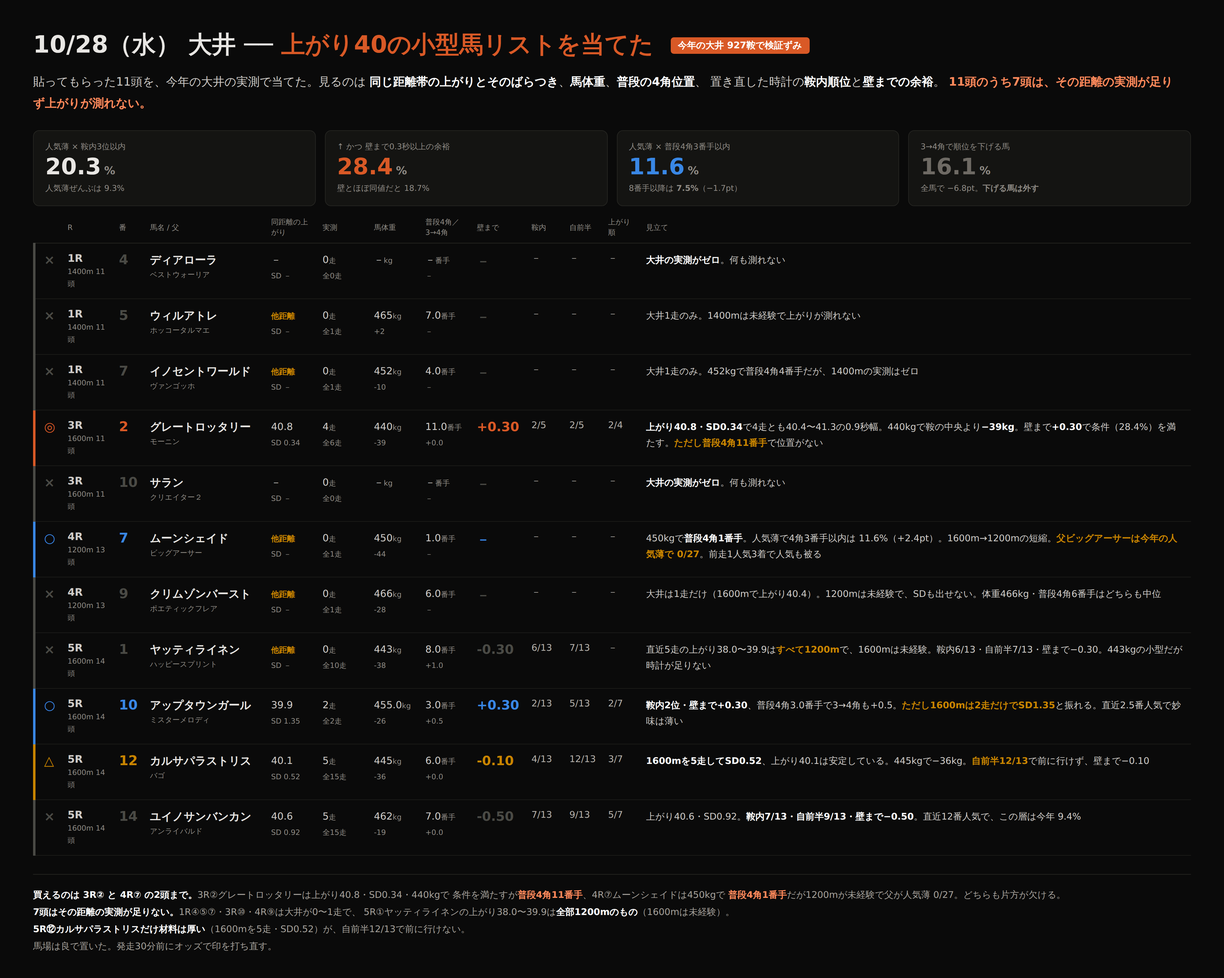
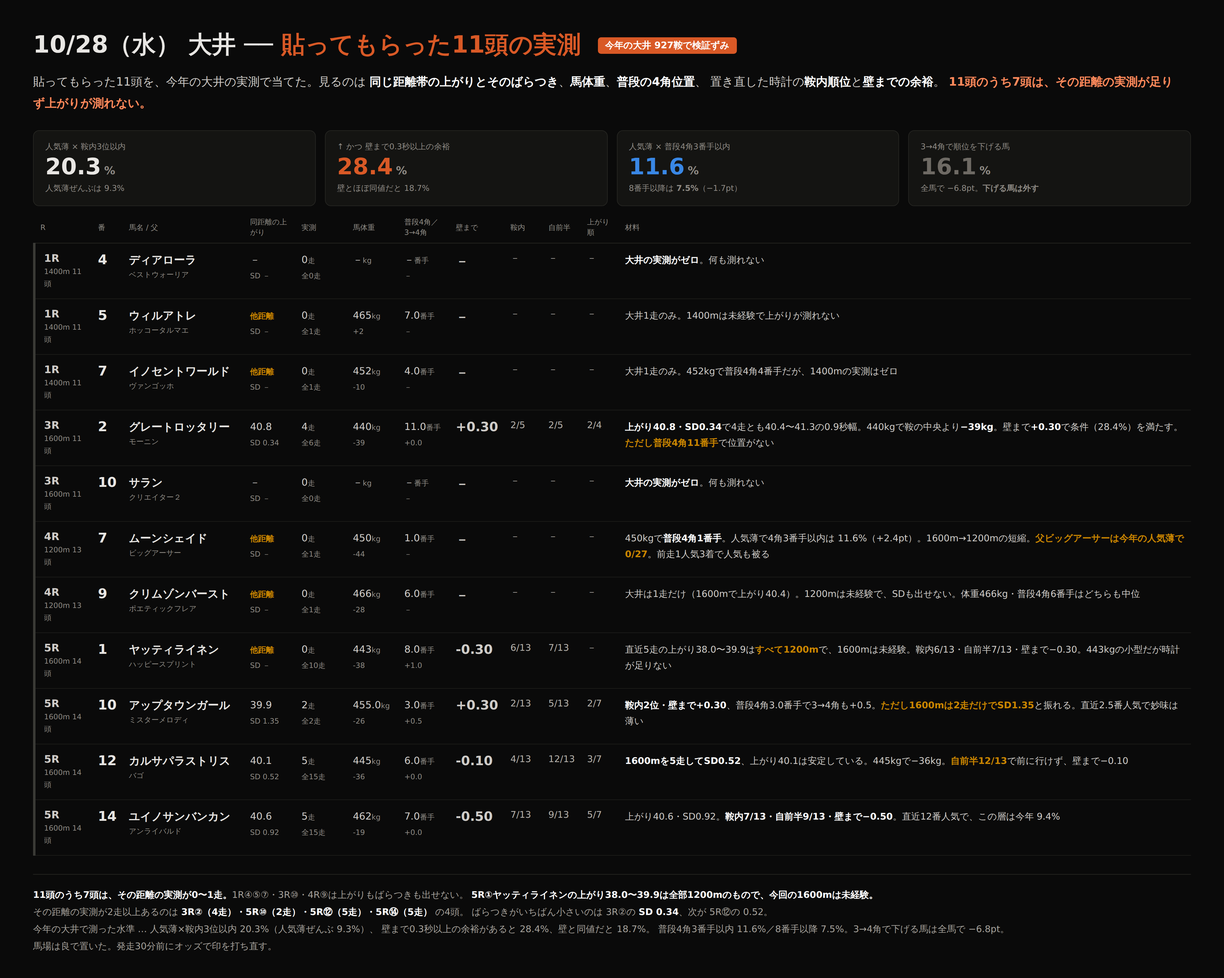
貼ってもらったリストのカードから印を外す
◎○△×と色分けをやめ、測った数字と事実だけにした。
脚注からも買う買わないの判断を外し、実測の厚みと年間の水準だけを
並べる形にした。

Claude-Session: https://claude.ai/code/session_01RoHscZkr96FNaxQWvUqgEw

diff --git a/notes/live/2026-10-28/list.html b/notes/live/2026-10-28/list.html
@@ -20,14 +20,15 @@ th{font-size:12px;color:#8e8a84;font-weight:500;text-align:left;padding:0 10px 8
 td{padding:15px 10px;border-bottom:1px solid #1d1d1a;font-size:16px;vertical-align:top}
 .mk{width:44px;font-size:21px;font-weight:800;color:var(--c);
  border-left:4px solid var(--c);padding-left:14px}
-.r{width:84px;color:#cfccc8;font-weight:700;font-size:17px}
+.r2{width:94px;color:#cfccc8;font-weight:700;font-size:17px;
+ border-left:4px solid var(--c);padding-left:14px}
 .dm{font-size:12px;color:#8e8a84;font-weight:500}
-.u{width:44px;font-weight:800;font-size:22px;color:var(--c)}
+.u{width:44px;font-weight:800;font-size:22px;color:#e8e6e3}
 .nm{font-weight:700;font-size:18px;width:198px}
 .si{display:block;font-size:12px;font-weight:500;color:#8e8a84;margin-top:4px}
 .sm{width:84px;color:#cfccc8;font-variant-numeric:tabular-nums;line-height:1.55}
 .un{font-size:12px;color:#8e8a84}
-.big{width:86px;font-size:21px;font-weight:800;font-variant-numeric:tabular-nums;color:var(--c)}
+.big{width:86px;font-size:21px;font-weight:800;font-variant-numeric:tabular-nums;color:#cfccc8}
 .rk{width:62px;color:#b5b1ab;font-variant-numeric:tabular-nums;font-size:15px}
 .why{color:#cfccc8;font-size:15px;line-height:1.72}
 .why b{color:#fff} .why .w{color:#c98500;font-weight:700}
@@ -36,7 +37,7 @@ footer{margin-top:30px;padding-top:20px;border-top:1px solid #262622;
  font-size:15px;line-height:1.85;color:#a5a19b}
 footer b{color:#fff} footer .hl{color:#ff8a5c;font-weight:700}
 </style></head><body>
-<h1>10/28（水） 大井 ── <span class=ac>上がり40の小型馬リストを当てた</span>
+<h1>10/28（水） 大井 ── <span class=ac>貼ってもらった11頭の実測</span>
 <span class=tag>今年の大井 927鞍で検証ずみ</span></h1>
 <p class=lead>
 貼ってもらった11頭を、今年の大井の実測で当てた。見るのは
@@ -57,16 +58,17 @@ footer b{color:#fff} footer .hl{color:#ff8a5c;font-weight:700}
   <div class=v style="color:#6e6a64">16.1<small>%</small></div>
   <div class=n>全馬で −6.8pt。<b>下げる馬は外す</b></div></div>
 </div>
-<table><thead><tr><th></th><th>R</th><th>番</th><th>馬名 / 父</th>
+<table><thead><tr><th>R</th><th>番</th><th>馬名 / 父</th>
 <th>同距離の上がり</th><th>実測</th><th>馬体重</th><th>普段4角／3→4角</th>
-<th>壁まで</th><th>鞍内</th><th>自前半</th><th>上がり順</th><th>見立て</th></tr></thead>
-<tbody><tr style="--c:#4a4a45"><td class=mk>×</td><td class=r>1R<br><span class=dm>1400m 11頭</span></td><td class=u>4</td><td class=nm>ディアローラ<span class=si>ベストウォーリア</span></td><td class=sm>－<br><span class=un>SD －</span></td><td class=sm>0<span class=un>走</span><br><span class=un>全0走</span></td><td class=sm>－<span class=un>kg</span><br></td><td class=sm>－<span class=un>番手</span><br><span class=un>－</span></td><td class=big>－</td><td class=rk>－</td><td class=rk>－</td><td class=rk>－</td><td class=why><b>大井の実測がゼロ</b>。何も測れない</td></tr><tr style="--c:#4a4a45"><td class=mk>×</td><td class=r>1R<br><span class=dm>1400m 11頭</span></td><td class=u>5</td><td class=nm>ウィルアトレ<span class=si>ホッコータルマエ</span></td><td class=sm><span class=w>他距離</span><br><span class=un>SD －</span></td><td class=sm>0<span class=un>走</span><br><span class=un>全1走</span></td><td class=sm>465<span class=un>kg</span><br><span class=un>+2</span></td><td class=sm>7.0<span class=un>番手</span><br><span class=un>－</span></td><td class=big>－</td><td class=rk>－</td><td class=rk>－</td><td class=rk>－</td><td class=why>大井1走のみ。1400mは未経験で上がりが測れない</td></tr><tr style="--c:#4a4a45"><td class=mk>×</td><td class=r>1R<br><span class=dm>1400m 11頭</span></td><td class=u>7</td><td class=nm>イノセントワールド<span class=si>ヴァンゴッホ</span></td><td class=sm><span class=w>他距離</span><br><span class=un>SD －</span></td><td class=sm>0<span class=un>走</span><br><span class=un>全1走</span></td><td class=sm>452<span class=un>kg</span><br><span class=un>-10</span></td><td class=sm>4.0<span class=un>番手</span><br><span class=un>－</span></td><td class=big>－</td><td class=rk>－</td><td class=rk>－</td><td class=rk>－</td><td class=why>大井1走のみ。452kgで普段4角4番手だが、1400mの実測はゼロ</td></tr><tr style="--c:#d95926"><td class=mk>◎</td><td class=r>3R<br><span class=dm>1600m 11頭</span></td><td class=u>2</td><td class=nm>グレートロッタリー<span class=si>モーニン</span></td><td class=sm>40.8<br><span class=un>SD 0.34</span></td><td class=sm>4<span class=un>走</span><br><span class=un>全6走</span></td><td class=sm>440<span class=un>kg</span><br><span class=un>-39</span></td><td class=sm>11.0<span class=un>番手</span><br><span class=un>+0.0</span></td><td class=big>+0.30</td><td class=rk>2/5</td><td class=rk>2/5</td><td class=rk>2/4</td><td class=why><b>上がり40.8・SD0.34</b>で4走とも40.4〜41.3の0.9秒幅。440kgで鞍の中央より<b>−39kg</b>。壁まで<b>+0.30</b>で条件（28.4%）を満たす。<span class=w>ただし普段4角11番手</span>で位置がない</td></tr><tr style="--c:#4a4a45"><td class=mk>×</td><td class=r>3R<br><span class=dm>1600m 11頭</span></td><td class=u>10</td><td class=nm>サラン<span class=si>クリエイター２</span></td><td class=sm>－<br><span class=un>SD －</span></td><td class=sm>0<span class=un>走</span><br><span class=un>全0走</span></td><td class=sm>－<span class=un>kg</span><br></td><td class=sm>－<span class=un>番手</span><br><span class=un>－</span></td><td class=big>－</td><td class=rk>－</td><td class=rk>－</td><td class=rk>－</td><td class=why><b>大井の実測がゼロ</b>。何も測れない</td></tr><tr style="--c:#3987e5"><td class=mk>○</td><td class=r>4R<br><span class=dm>1200m 13頭</span></td><td class=u>7</td><td class=nm>ムーンシェイド<span class=si>ビッグアーサー</span></td><td class=sm><span class=w>他距離</span><br><span class=un>SD －</span></td><td class=sm>0<span class=un>走</span><br><span class=un>全1走</span></td><td class=sm>450<span class=un>kg</span><br><span class=un>-44</span></td><td class=sm>1.0<span class=un>番手</span><br><span class=un>－</span></td><td class=big>－</td><td class=rk>－</td><td class=rk>－</td><td class=rk>－</td><td class=why>450kgで<b>普段4角1番手</b>。人気薄で4角3番手以内は 11.6%（+2.4pt）。1600m→1200mの短縮。<span class=w>父ビッグアーサーは今年の人気薄で 0/27</span>。前走1人気3着で人気も被る</td></tr><tr style="--c:#4a4a45"><td class=mk>×</td><td class=r>4R<br><span class=dm>1200m 13頭</span></td><td class=u>9</td><td class=nm>クリムゾンバースト<span class=si>ポエティックフレア</span></td><td class=sm><span class=w>他距離</span><br><span class=un>SD －</span></td><td class=sm>0<span class=un>走</span><br><span class=un>全1走</span></td><td class=sm>466<span class=un>kg</span><br><span class=un>-28</span></td><td class=sm>6.0<span class=un>番手</span><br><span class=un>－</span></td><td class=big>－</td><td class=rk>－</td><td class=rk>－</td><td class=rk>－</td><td class=why>大井は1走だけ（1600mで上がり40.4）。1200mは未経験で、SDも出せない。体重466kg・普段4角6番手はどちらも中位</td></tr><tr style="--c:#4a4a45"><td class=mk>×</td><td class=r>5R<br><span class=dm>1600m 14頭</span></td><td class=u>1</td><td class=nm>ヤッティライネン<span class=si>ハッピースプリント</span></td><td class=sm><span class=w>他距離</span><br><span class=un>SD －</span></td><td class=sm>0<span class=un>走</span><br><span class=un>全10走</span></td><td class=sm>443<span class=un>kg</span><br><span class=un>-38</span></td><td class=sm>8.0<span class=un>番手</span><br><span class=un>+1.0</span></td><td class=big>-0.30</td><td class=rk>6/13</td><td class=rk>7/13</td><td class=rk>－</td><td class=why>直近5走の上がり38.0〜39.9は<span class=w>すべて1200m</span>で、1600mは未経験。鞍内6/13・自前半7/13・壁まで−0.30。443kgの小型だが時計が足りない</td></tr><tr style="--c:#3987e5"><td class=mk>○</td><td class=r>5R<br><span class=dm>1600m 14頭</span></td><td class=u>10</td><td class=nm>アップタウンガール<span class=si>ミスターメロディ</span></td><td class=sm>39.9<br><span class=un>SD 1.35</span></td><td class=sm>2<span class=un>走</span><br><span class=un>全2走</span></td><td class=sm>455.0<span class=un>kg</span><br><span class=un>-26</span></td><td class=sm>3.0<span class=un>番手</span><br><span class=un>+0.5</span></td><td class=big>+0.30</td><td class=rk>2/13</td><td class=rk>5/13</td><td class=rk>2/7</td><td class=why><b>鞍内2位・壁まで+0.30</b>、普段4角3.0番手で3→4角も+0.5。<span class=w>ただし1600mは2走だけでSD1.35</span>と振れる。直近2.5番人気で妙味は薄い</td></tr><tr style="--c:#c98500"><td class=mk>△</td><td class=r>5R<br><span class=dm>1600m 14頭</span></td><td class=u>12</td><td class=nm>カルサパラストリス<span class=si>バゴ</span></td><td class=sm>40.1<br><span class=un>SD 0.52</span></td><td class=sm>5<span class=un>走</span><br><span class=un>全15走</span></td><td class=sm>445<span class=un>kg</span><br><span class=un>-36</span></td><td class=sm>6.0<span class=un>番手</span><br><span class=un>+0.0</span></td><td class=big>-0.10</td><td class=rk>4/13</td><td class=rk>12/13</td><td class=rk>3/7</td><td class=why><b>1600mを5走してSD0.52</b>、上がり40.1は安定している。445kgで−36kg。<span class=w>自前半12/13</span>で前に行けず、壁まで−0.10</td></tr><tr style="--c:#4a4a45"><td class=mk>×</td><td class=r>5R<br><span class=dm>1600m 14頭</span></td><td class=u>14</td><td class=nm>ユイノサンバンカン<span class=si>アンライバルド</span></td><td class=sm>40.6<br><span class=un>SD 0.92</span></td><td class=sm>5<span class=un>走</span><br><span class=un>全15走</span></td><td class=sm>462<span class=un>kg</span><br><span class=un>-19</span></td><td class=sm>7.0<span class=un>番手</span><br><span class=un>+0.0</span></td><td class=big>-0.50</td><td class=rk>7/13</td><td class=rk>9/13</td><td class=rk>5/7</td><td class=why>上がり40.6・SD0.92。<b>鞍内7/13・自前半9/13・壁まで−0.50</b>。直近12番人気で、この層は今年 9.4%</td></tr></tbody></table>
+<th>壁まで</th><th>鞍内</th><th>自前半</th><th>上がり順</th><th>材料</th></tr></thead>
+<tbody><tr style="--c:#3a3a36"><td class=r2>1R<br><span class=dm>1400m 11頭</span></td><td class=u>4</td><td class=nm>ディアローラ<span class=si>ベストウォーリア</span></td><td class=sm>－<br><span class=un>SD －</span></td><td class=sm>0<span class=un>走</span><br><span class=un>全0走</span></td><td class=sm>－<span class=un>kg</span><br></td><td class=sm>－<span class=un>番手</span><br><span class=un>－</span></td><td class=big>－</td><td class=rk>－</td><td class=rk>－</td><td class=rk>－</td><td class=why><b>大井の実測がゼロ</b>。何も測れない</td></tr><tr style="--c:#3a3a36"><td class=r2>1R<br><span class=dm>1400m 11頭</span></td><td class=u>5</td><td class=nm>ウィルアトレ<span class=si>ホッコータルマエ</span></td><td class=sm><span class=w>他距離</span><br><span class=un>SD －</span></td><td class=sm>0<span class=un>走</span><br><span class=un>全1走</span></td><td class=sm>465<span class=un>kg</span><br><span class=un>+2</span></td><td class=sm>7.0<span class=un>番手</span><br><span class=un>－</span></td><td class=big>－</td><td class=rk>－</td><td class=rk>－</td><td class=rk>－</td><td class=why>大井1走のみ。1400mは未経験で上がりが測れない</td></tr><tr style="--c:#3a3a36"><td class=r2>1R<br><span class=dm>1400m 11頭</span></td><td class=u>7</td><td class=nm>イノセントワールド<span class=si>ヴァンゴッホ</span></td><td class=sm><span class=w>他距離</span><br><span class=un>SD －</span></td><td class=sm>0<span class=un>走</span><br><span class=un>全1走</span></td><td class=sm>452<span class=un>kg</span><br><span class=un>-10</span></td><td class=sm>4.0<span class=un>番手</span><br><span class=un>－</span></td><td class=big>－</td><td class=rk>－</td><td class=rk>－</td><td class=rk>－</td><td class=why>大井1走のみ。452kgで普段4角4番手だが、1400mの実測はゼロ</td></tr><tr style="--c:#3a3a36"><td class=r2>3R<br><span class=dm>1600m 11頭</span></td><td class=u>2</td><td class=nm>グレートロッタリー<span class=si>モーニン</span></td><td class=sm>40.8<br><span class=un>SD 0.34</span></td><td class=sm>4<span class=un>走</span><br><span class=un>全6走</span></td><td class=sm>440<span class=un>kg</span><br><span class=un>-39</span></td><td class=sm>11.0<span class=un>番手</span><br><span class=un>+0.0</span></td><td class=big>+0.30</td><td class=rk>2/5</td><td class=rk>2/5</td><td class=rk>2/4</td><td class=why><b>上がり40.8・SD0.34</b>で4走とも40.4〜41.3の0.9秒幅。440kgで鞍の中央より<b>−39kg</b>。壁まで<b>+0.30</b>で条件（28.4%）を満たす。<span class=w>ただし普段4角11番手</span>で位置がない</td></tr><tr style="--c:#3a3a36"><td class=r2>3R<br><span class=dm>1600m 11頭</span></td><td class=u>10</td><td class=nm>サラン<span class=si>クリエイター２</span></td><td class=sm>－<br><span class=un>SD －</span></td><td class=sm>0<span class=un>走</span><br><span class=un>全0走</span></td><td class=sm>－<span class=un>kg</span><br></td><td class=sm>－<span class=un>番手</span><br><span class=un>－</span></td><td class=big>－</td><td class=rk>－</td><td class=rk>－</td><td class=rk>－</td><td class=why><b>大井の実測がゼロ</b>。何も測れない</td></tr><tr style="--c:#3a3a36"><td class=r2>4R<br><span class=dm>1200m 13頭</span></td><td class=u>7</td><td class=nm>ムーンシェイド<span class=si>ビッグアーサー</span></td><td class=sm><span class=w>他距離</span><br><span class=un>SD －</span></td><td class=sm>0<span class=un>走</span><br><span class=un>全1走</span></td><td class=sm>450<span class=un>kg</span><br><span class=un>-44</span></td><td class=sm>1.0<span class=un>番手</span><br><span class=un>－</span></td><td class=big>－</td><td class=rk>－</td><td class=rk>－</td><td class=rk>－</td><td class=why>450kgで<b>普段4角1番手</b>。人気薄で4角3番手以内は 11.6%（+2.4pt）。1600m→1200mの短縮。<span class=w>父ビッグアーサーは今年の人気薄で 0/27</span>。前走1人気3着で人気も被る</td></tr><tr style="--c:#3a3a36"><td class=r2>4R<br><span class=dm>1200m 13頭</span></td><td class=u>9</td><td class=nm>クリムゾンバースト<span class=si>ポエティックフレア</span></td><td class=sm><span class=w>他距離</span><br><span class=un>SD －</span></td><td class=sm>0<span class=un>走</span><br><span class=un>全1走</span></td><td class=sm>466<span class=un>kg</span><br><span class=un>-28</span></td><td class=sm>6.0<span class=un>番手</span><br><span class=un>－</span></td><td class=big>－</td><td class=rk>－</td><td class=rk>－</td><td class=rk>－</td><td class=why>大井は1走だけ（1600mで上がり40.4）。1200mは未経験で、SDも出せない。体重466kg・普段4角6番手はどちらも中位</td></tr><tr style="--c:#3a3a36"><td class=r2>5R<br><span class=dm>1600m 14頭</span></td><td class=u>1</td><td class=nm>ヤッティライネン<span class=si>ハッピースプリント</span></td><td class=sm><span class=w>他距離</span><br><span class=un>SD －</span></td><td class=sm>0<span class=un>走</span><br><span class=un>全10走</span></td><td class=sm>443<span class=un>kg</span><br><span class=un>-38</span></td><td class=sm>8.0<span class=un>番手</span><br><span class=un>+1.0</span></td><td class=big>-0.30</td><td class=rk>6/13</td><td class=rk>7/13</td><td class=rk>－</td><td class=why>直近5走の上がり38.0〜39.9は<span class=w>すべて1200m</span>で、1600mは未経験。鞍内6/13・自前半7/13・壁まで−0.30。443kgの小型だが時計が足りない</td></tr><tr style="--c:#3a3a36"><td class=r2>5R<br><span class=dm>1600m 14頭</span></td><td class=u>10</td><td class=nm>アップタウンガール<span class=si>ミスターメロディ</span></td><td class=sm>39.9<br><span class=un>SD 1.35</span></td><td class=sm>2<span class=un>走</span><br><span class=un>全2走</span></td><td class=sm>455.0<span class=un>kg</span><br><span class=un>-26</span></td><td class=sm>3.0<span class=un>番手</span><br><span class=un>+0.5</span></td><td class=big>+0.30</td><td class=rk>2/13</td><td class=rk>5/13</td><td class=rk>2/7</td><td class=why><b>鞍内2位・壁まで+0.30</b>、普段4角3.0番手で3→4角も+0.5。<span class=w>ただし1600mは2走だけでSD1.35</span>と振れる。直近2.5番人気で妙味は薄い</td></tr><tr style="--c:#3a3a36"><td class=r2>5R<br><span class=dm>1600m 14頭</span></td><td class=u>12</td><td class=nm>カルサパラストリス<span class=si>バゴ</span></td><td class=sm>40.1<br><span class=un>SD 0.52</span></td><td class=sm>5<span class=un>走</span><br><span class=un>全15走</span></td><td class=sm>445<span class=un>kg</span><br><span class=un>-36</span></td><td class=sm>6.0<span class=un>番手</span><br><span class=un>+0.0</span></td><td class=big>-0.10</td><td class=rk>4/13</td><td class=rk>12/13</td><td class=rk>3/7</td><td class=why><b>1600mを5走してSD0.52</b>、上がり40.1は安定している。445kgで−36kg。<span class=w>自前半12/13</span>で前に行けず、壁まで−0.10</td></tr><tr style="--c:#3a3a36"><td class=r2>5R<br><span class=dm>1600m 14頭</span></td><td class=u>14</td><td class=nm>ユイノサンバンカン<span class=si>アンライバルド</span></td><td class=sm>40.6<br><span class=un>SD 0.92</span></td><td class=sm>5<span class=un>走</span><br><span class=un>全15走</span></td><td class=sm>462<span class=un>kg</span><br><span class=un>-19</span></td><td class=sm>7.0<span class=un>番手</span><br><span class=un>+0.0</span></td><td class=big>-0.50</td><td class=rk>7/13</td><td class=rk>9/13</td><td class=rk>5/7</td><td class=why>上がり40.6・SD0.92。<b>鞍内7/13・自前半9/13・壁まで−0.50</b>。直近12番人気で、この層は今年 9.4%</td></tr></tbody></table>
 <footer>
-<b>買えるのは 3R② と 4R⑦ の2頭まで。</b>3R②グレートロッタリーは上がり40.8・SD0.34・440kgで
-条件を満たすが<span class=hl>普段4角11番手</span>、4R⑦ムーンシェイドは450kgで
-<span class=hl>普段4角1番手</span>だが1200mが未経験で父が人気薄 0/27。どちらも片方が欠ける。<br>
-<b>7頭はその距離の実測が足りない。</b>1R④⑤⑦・3R⑩・4R⑨は大井が0〜1走で、
-5R①ヤッティライネンの上がり38.0〜39.9は<b>全部1200mのもの</b>（1600mは未経験）。<br>
-<b>5R⑫カルサパラストリスだけ材料は厚い</b>（1600mを5走・SD0.52）が、自前半12/13で前に行けない。<br>
+<b>11頭のうち7頭は、その距離の実測が0〜1走。</b>1R④⑤⑦・3R⑩・4R⑨は上がりもばらつきも出せない。
+<b>5R①ヤッティライネンの上がり38.0〜39.9は全部1200mのもので、今回の1600mは未経験。</b><br>
+その距離の実測が2走以上あるのは <b>3R②（4走）・5R⑩（2走）・5R⑫（5走）・5R⑭（5走）</b> の4頭。
+ばらつきがいちばん小さいのは 3R②の <b>SD 0.34</b>、次が 5R⑫の 0.52。<br>
+今年の大井で測った水準 … 人気薄×鞍内3位以内 20.3%（人気薄ぜんぶ 9.3%）、
+壁まで0.3秒以上の余裕があると 28.4%、壁と同値だと 18.7%。
+普段4角3番手以内 11.6%／8番手以降 7.5%。3→4角で下げる馬は全馬で −6.8pt。<br>
 馬場は良で置いた。発走30分前にオッズで印を打ち直す。
 </footer></body></html>

diff --git a/scripts/ana/ooi_list_card.py b/scripts/ana/ooi_list_card.py
@@ -12,39 +12,39 @@ LIST, DAY, OUT = sys.argv[1], sys.argv[2], sys.argv[3]
 P = json.load(open(LIST, encoding='utf-8'))
 
 NOTE = {
- 'グレートロッタリー': ('◎', '#d95926',
+ 'グレートロッタリー': ('', '#3a3a36',
    '<b>上がり40.8・SD0.34</b>で4走とも40.4〜41.3の0.9秒幅。440kgで鞍の中央より'
    '<b>−39kg</b>。壁まで<b>+0.30</b>で条件（28.4%）を満たす。'
    '<span class=w>ただし普段4角11番手</span>で位置がない'),
- 'ムーンシェイド': ('○', '#3987e5',
+ 'ムーンシェイド': ('', '#3a3a36',
    '450kgで<b>普段4角1番手</b>。人気薄で4角3番手以内は 11.6%（+2.4pt）。'
    '1600m→1200mの短縮。<span class=w>父ビッグアーサーは今年の人気薄で 0/27</span>。'
    '前走1人気3着で人気も被る'),
- 'アップタウンガール': ('○', '#3987e5',
+ 'アップタウンガール': ('', '#3a3a36',
    '<b>鞍内2位・壁まで+0.30</b>、普段4角3.0番手で3→4角も+0.5。'
    '<span class=w>ただし1600mは2走だけでSD1.35</span>と振れる。直近2.5番人気で妙味は薄い'),
- 'カルサパラストリス': ('△', '#c98500',
+ 'カルサパラストリス': ('', '#3a3a36',
    '<b>1600mを5走してSD0.52</b>、上がり40.1は安定している。445kgで−36kg。'
    '<span class=w>自前半12/13</span>で前に行けず、壁まで−0.10'),
- 'ヤッティライネン': ('×', '#4a4a45',
+ 'ヤッティライネン': ('', '#3a3a36',
    '直近5走の上がり38.0〜39.9は<span class=w>すべて1200m</span>で、1600mは未経験。'
    '鞍内6/13・自前半7/13・壁まで−0.30。443kgの小型だが時計が足りない'),
- 'ユイノサンバンカン': ('×', '#4a4a45',
+ 'ユイノサンバンカン': ('', '#3a3a36',
    '上がり40.6・SD0.92。<b>鞍内7/13・自前半9/13・壁まで−0.50</b>。'
    '直近12番人気で、この層は今年 9.4%'),
- 'クリムゾンバースト': ('×', '#4a4a45',
+ 'クリムゾンバースト': ('', '#3a3a36',
    '大井は1走だけ（1600mで上がり40.4）。1200mは未経験で、SDも出せない。'
    '体重466kg・普段4角6番手はどちらも中位'),
- 'ウィルアトレ': ('×', '#4a4a45', '大井1走のみ。1400mは未経験で上がりが測れない'),
- 'イノセントワールド': ('×', '#4a4a45',
+ 'ウィルアトレ': ('', '#3a3a36', '大井1走のみ。1400mは未経験で上がりが測れない'),
+ 'イノセントワールド': ('', '#3a3a36',
    '大井1走のみ。452kgで普段4角4番手だが、1400mの実測はゼロ'),
- 'ディアローラ': ('×', '#4a4a45', '<b>大井の実測がゼロ</b>。何も測れない'),
- 'サラン': ('×', '#4a4a45', '<b>大井の実測がゼロ</b>。何も測れない'),
+ 'ディアローラ': ('', '#3a3a36', '<b>大井の実測がゼロ</b>。何も測れない'),
+ 'サラン': ('', '#3a3a36', '<b>大井の実測がゼロ</b>。何も測れない'),
 }
 
 rows = []
 for p in P:
-    mk, c, why = NOTE.get(p['nm'], ('×', '#4a4a45', ''))
+    mk, c, why = NOTE.get(p['nm'], ('', '#3a3a36', ''))
     ag = (f"{p['ag']:.1f}" if p['ag'] is not None
           else ('<span class=w>他距離</span>' if p['ag_other'] else '－'))
     sd = f"{p['sd']:.2f}" if p['sd'] is not None else '－'
@@ -56,8 +56,8 @@ for p in P:
     g = f"{p['gain']:+.1f}" if p['gain'] is not None else '－'
     dw = (f"<span class=un>{p['dw']:+d}</span>" if p['dw'] is not None else '')
     rows.append(
-      f'<tr style="--c:{c}"><td class=mk>{mk}</td>'
-      f'<td class=r>{p["R"]}R<br><span class=dm>{p["dist"]}m {p["n"]}頭</span></td>'
+      f'<tr style="--c:{c}">'
+      f'<td class=r2>{p["R"]}R<br><span class=dm>{p["dist"]}m {p["n"]}頭</span></td>'
       f'<td class=u>{p["u"]}</td>'
       f'<td class=nm>{html.escape(p["nm"])}<span class=si>{html.escape(p["sire"])}</span></td>'
       f'<td class=sm>{ag}<br><span class=un>SD {sd}</span></td>'
@@ -91,14 +91,15 @@ th{{font-size:12px;color:#8e8a84;font-weight:500;text-align:left;padding:0 10px 
 td{{padding:15px 10px;border-bottom:1px solid #1d1d1a;font-size:16px;vertical-align:top}}
 .mk{{width:44px;font-size:21px;font-weight:800;color:var(--c);
  border-left:4px solid var(--c);padding-left:14px}}
-.r{{width:84px;color:#cfccc8;font-weight:700;font-size:17px}}
+.r2{{width:94px;color:#cfccc8;font-weight:700;font-size:17px;
+ border-left:4px solid var(--c);padding-left:14px}}
 .dm{{font-size:12px;color:#8e8a84;font-weight:500}}
-.u{{width:44px;font-weight:800;font-size:22px;color:var(--c)}}
+.u{{width:44px;font-weight:800;font-size:22px;color:#e8e6e3}}
 .nm{{font-weight:700;font-size:18px;width:198px}}
 .si{{display:block;font-size:12px;font-weight:500;color:#8e8a84;margin-top:4px}}
 .sm{{width:84px;color:#cfccc8;font-variant-numeric:tabular-nums;line-height:1.55}}
 .un{{font-size:12px;color:#8e8a84}}
-.big{{width:86px;font-size:21px;font-weight:800;font-variant-numeric:tabular-nums;color:var(--c)}}
+.big{{width:86px;font-size:21px;font-weight:800;font-variant-numeric:tabular-nums;color:#cfccc8}}
 .rk{{width:62px;color:#b5b1ab;font-variant-numeric:tabular-nums;font-size:15px}}
 .why{{color:#cfccc8;font-size:15px;line-height:1.72}}
 .why b{{color:#fff}} .why .w{{color:#c98500;font-weight:700}}
@@ -107,7 +108,7 @@ footer{{margin-top:30px;padding-top:20px;border-top:1px solid #262622;
  font-size:15px;line-height:1.85;color:#a5a19b}}
 footer b{{color:#fff}} footer .hl{{color:#ff8a5c;font-weight:700}}
 </style></head><body>
-<h1>{DAY} 大井 ── <span class=ac>上がり40の小型馬リストを当てた</span>
+<h1>{DAY} 大井 ── <span class=ac>貼ってもらった11頭の実測</span>
 <span class=tag>今年の大井 927鞍で検証ずみ</span></h1>
 <p class=lead>
 貼ってもらった11頭を、今年の大井の実測で当てた。見るのは
@@ -128,17 +129,18 @@ footer b{{color:#fff}} footer .hl{{color:#ff8a5c;font-weight:700}}
   <div class=v style="color:#6e6a64">16.1<small>%</small></div>
   <div class=n>全馬で −6.8pt。<b>下げる馬は外す</b></div></div>
 </div>
-<table><thead><tr><th></th><th>R</th><th>番</th><th>馬名 / 父</th>
+<table><thead><tr><th>R</th><th>番</th><th>馬名 / 父</th>
 <th>同距離の上がり</th><th>実測</th><th>馬体重</th><th>普段4角／3→4角</th>
-<th>壁まで</th><th>鞍内</th><th>自前半</th><th>上がり順</th><th>見立て</th></tr></thead>
+<th>壁まで</th><th>鞍内</th><th>自前半</th><th>上がり順</th><th>材料</th></tr></thead>
 <tbody>{''.join(rows)}</tbody></table>
 <footer>
-<b>買えるのは 3R② と 4R⑦ の2頭まで。</b>3R②グレートロッタリーは上がり40.8・SD0.34・440kgで
-条件を満たすが<span class=hl>普段4角11番手</span>、4R⑦ムーンシェイドは450kgで
-<span class=hl>普段4角1番手</span>だが1200mが未経験で父が人気薄 0/27。どちらも片方が欠ける。<br>
-<b>7頭はその距離の実測が足りない。</b>1R④⑤⑦・3R⑩・4R⑨は大井が0〜1走で、
-5R①ヤッティライネンの上がり38.0〜39.9は<b>全部1200mのもの</b>（1600mは未経験）。<br>
-<b>5R⑫カルサパラストリスだけ材料は厚い</b>（1600mを5走・SD0.52）が、自前半12/13で前に行けない。<br>
+<b>11頭のうち7頭は、その距離の実測が0〜1走。</b>1R④⑤⑦・3R⑩・4R⑨は上がりもばらつきも出せない。
+<b>5R①ヤッティライネンの上がり38.0〜39.9は全部1200mのもので、今回の1600mは未経験。</b><br>
+その距離の実測が2走以上あるのは <b>3R②（4走）・5R⑩（2走）・5R⑫（5走）・5R⑭（5走）</b> の4頭。
+ばらつきがいちばん小さいのは 3R②の <b>SD 0.34</b>、次が 5R⑫の 0.52。<br>
+今年の大井で測った水準 … 人気薄×鞍内3位以内 20.3%（人気薄ぜんぶ 9.3%）、
+壁まで0.3秒以上の余裕があると 28.4%、壁と同値だと 18.7%。
+普段4角3番手以内 11.6%／8番手以降 7.5%。3→4角で下げる馬は全馬で −6.8pt。<br>
 馬場は良で置いた。発走30分前にオッズで印を打ち直す。
 </footer></body></html>'''
 open(OUT, 'w', encoding='utf-8').write(HTML)
